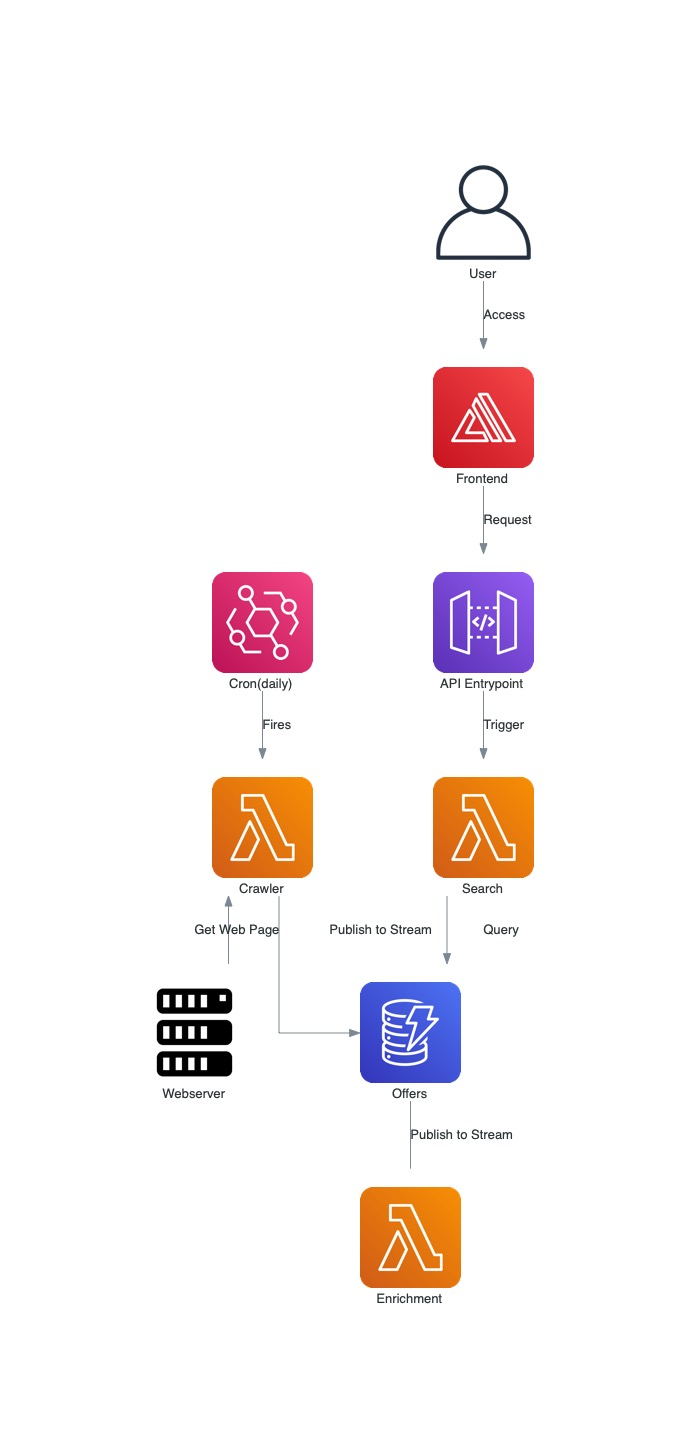
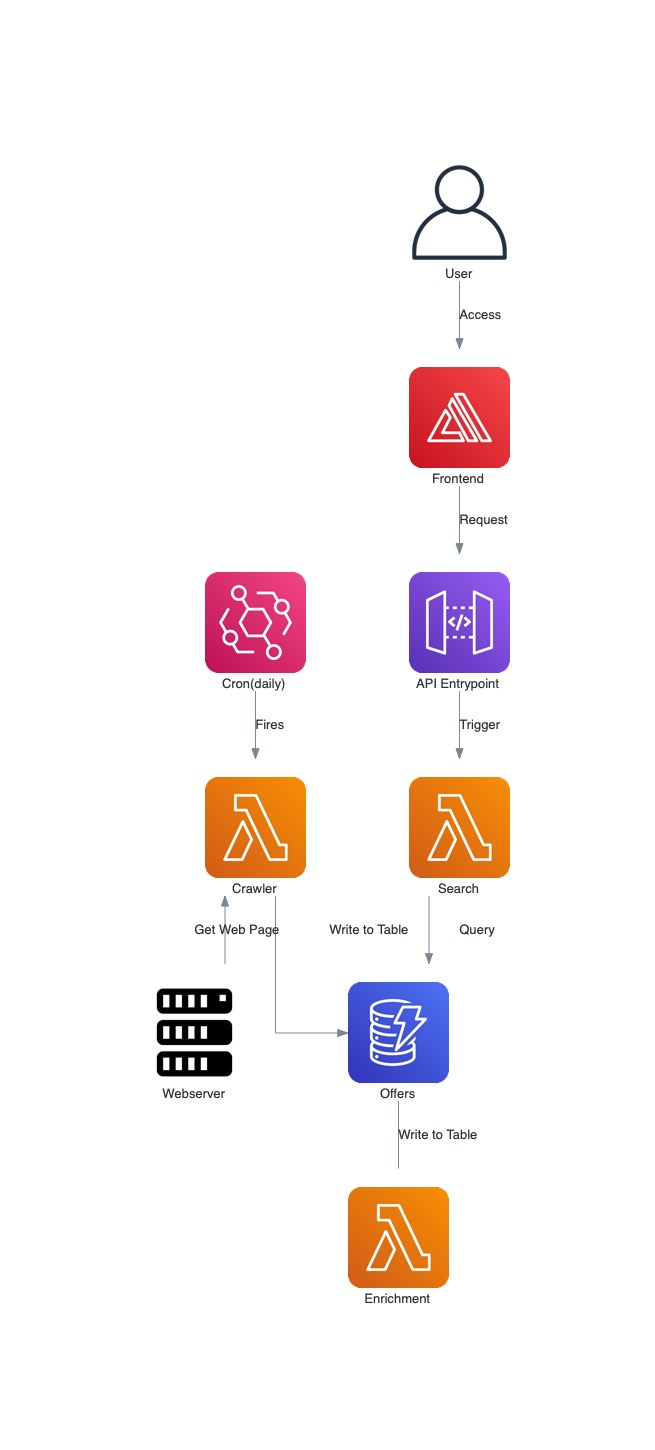
Replace publish to stream message with write to table

diff --git a/rent-price-webcrawler.py b/rent-price-webcrawler.py
@@ -31,8 +31,8 @@ with Diagram(filename="rent-price-webcrawler", outformat="jpg", direction="TB", 
 
     with Cluster("Collection and Enrichment"):
         cron >> Edge(label="Fires") >> lambda_crawler << Edge(label="Get Web Page") << webserver
-        lambda_crawler >> Edge(label="Publish to Stream") >> ddb_table
-        ddb_table - Edge(label="Publish to Stream") - lambda_enrichment
+        lambda_crawler >> Edge(label="Write to Table") >> ddb_table
+        ddb_table - Edge(label="Write to Table") - lambda_enrichment
 
     with Cluster("User interaction"):
         user >> Edge(label="Access") >> frontend
